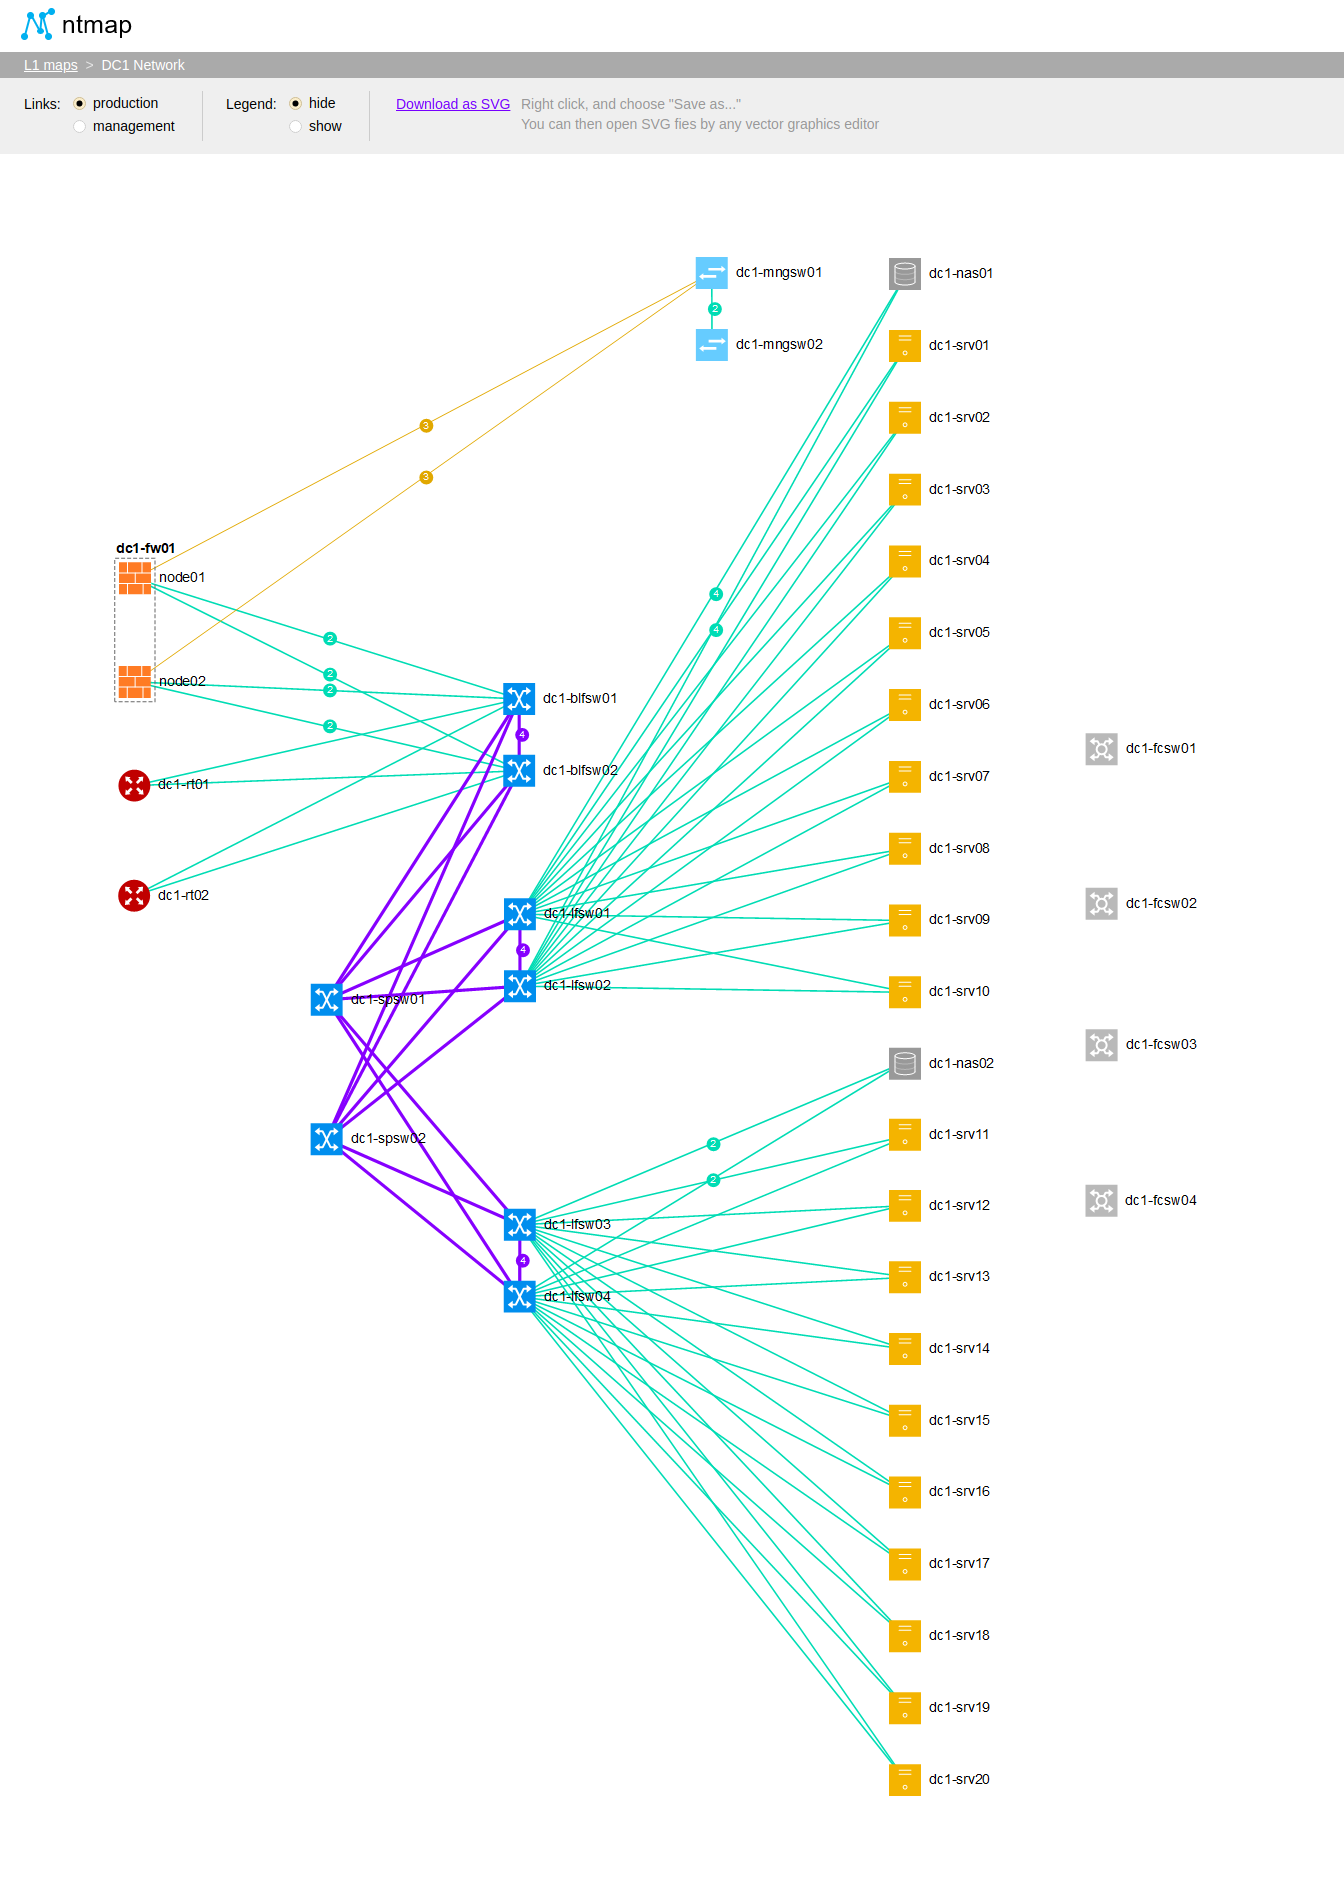
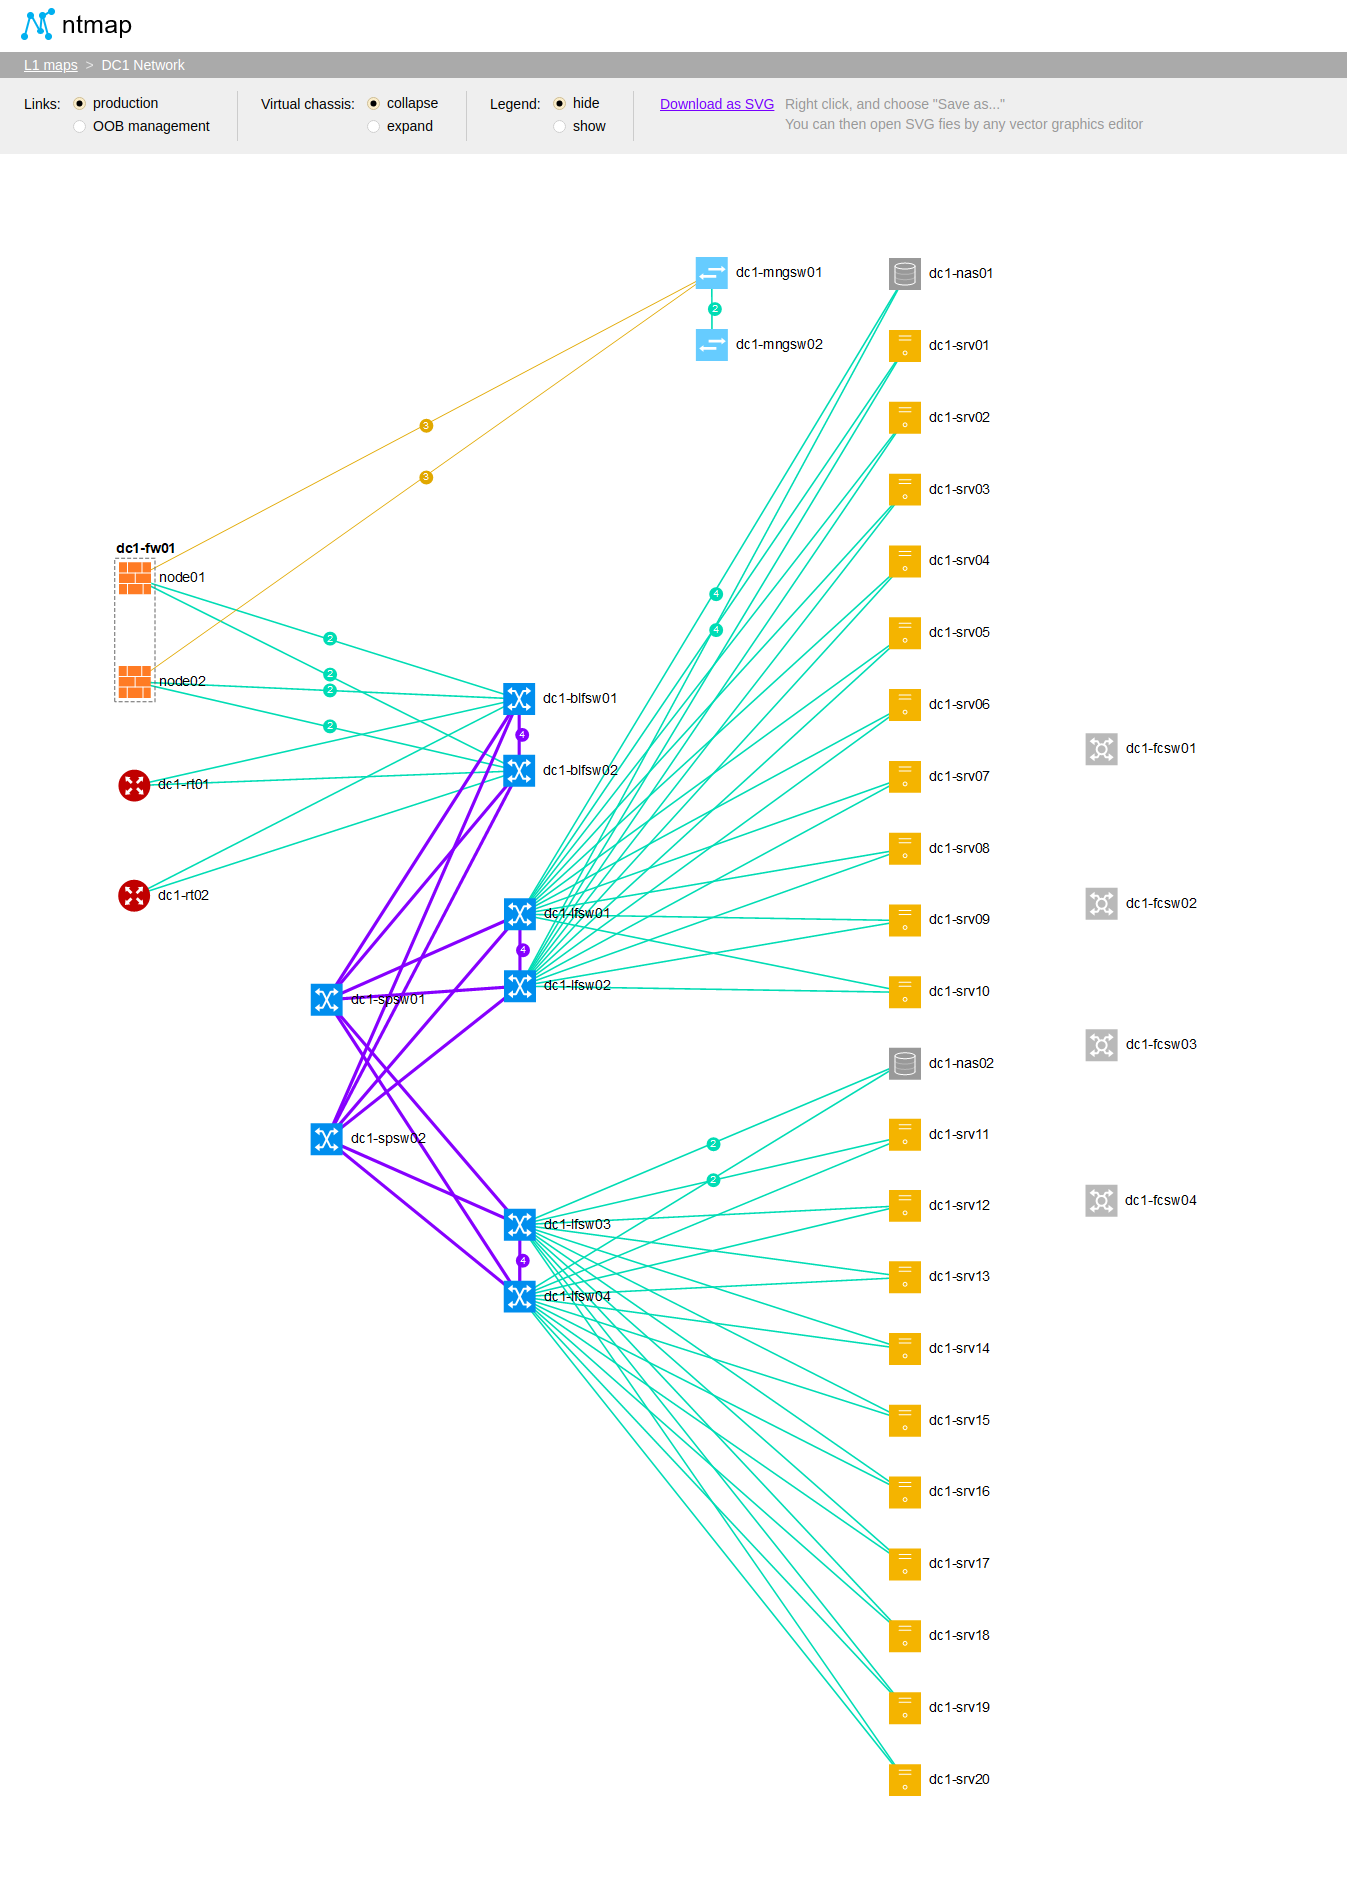
Added VC collapse/expand display mode

diff --git a/www/map/index.html b/www/map/index.html
@@ -9,7 +9,7 @@
 	<table width="100%" cellspacing="0" cellpadding="0" style="padding: 0; margin: 0;">
 		<tr>
 			<td style="padding-left: 20px;">
-				<img src="/img/logo.png" style="margin-top: 8px; margin-bottom: 8px;"/>
+				<a href="/"><img src="/img/logo.png" style="margin-top: 8px; margin-bottom: 8px;" border="0"/></a>
 			</td>
 		</tr>
 		<tr>
@@ -23,18 +23,19 @@
 					<tr>
 						<!--<td valign=top style="padding-top:6px">&#x2190; <a href="/">Back to list</a></td>
 						<td width="16"></td><td width="20"><div class="div-vert-line-80"/></td>-->
-						<!--<td valign=top style="padding-top:6px">Virtual chassis:</td>-->
-						<!--<td valign="top">
-							<table>
-								<tr><td><input type="radio" name="hide_clients_radio" value="1" onclick="drawL1Map(1);" checked="checked" /></td><td>collapse</td></tr>
-								<tr><td><input type="radio" name="hide_clients_radio" value="0" onclick="drawL1Map(0);"/></td><td>expand</td></tr>
-							</table>
-						</td>-->
 						<td valign=top style="padding-top:6px">Links:</td>
 						<td valign="top">
 							<table>
-								<tr><td><input type="radio" name="radio_links_mode" value="0" onclick="drawL1Map(1, 1);" checked="checked" /></td><td>production</td></tr>
-								<tr><td><input type="radio" name="radio_links_mode" value="1" onclick="drawL1Map(1, 0);"/></td><td>management</td></tr>
+								<tr><td><input type="radio" name="radio_prod_links_mode" value="1" onclick="drawL1Map();" checked="checked" /></td><td>production</td></tr>
+								<tr><td><input type="radio" name="radio_prod_links_mode" value="0" onclick="drawL1Map();"/></td><td>OOB management</td></tr>
+							</table>
+						</td>
+						<td width="16"></td><td width="20"><div class="div-vert-line-80"/></td>
+						<td valign=top style="padding-top:6px">Virtual chassis:</td>
+						<td valign="top">
+							<table>
+								<tr><td><input type="radio" name="radio_expand_vc_mode" value="0" onclick="drawL1Map();" checked="checked" /></td><td>collapse</td></tr>
+								<tr><td><input type="radio" name="radio_expand_vc_mode" value="1" onclick="drawL1Map();"/></td><td>expand</td></tr>
 							</table>
 						</td>
 						<td width="16"></td><td width="20"><div class="div-vert-line-80"/></td>
@@ -117,7 +118,7 @@
 									<text x="596" y="10" class="secondary_text">Standalone node:</text>
 									<text x="596" y="28" class="secondary_text"></text>
 									<image xlink:href="/img/switch.svg" width="32" height="32" x="600" y="20"></image>
-									<text x="640" y="40">dc2-core-sw01</text>
+									<text x="640" y="40">dc2-leaf-sw01</text>
 								</g>
 							</g>
 							</svg>
@@ -136,10 +137,11 @@
 </div>
 
 <footer>
-	<table width="100%">
+	<div style="height: 1px; background: #aaaaaa;"></div>
+	<table style="width: 100%; height: calc(100% - 1px);">
 		<tr>
-			<td style="padding: 10px; padding-left: 21px;" class="secondary_text">v0.3.1</td>
-			<td style="padding: 10px; padding-right: 21px; text-align: right;" class="secondary_text"><a href="https://github.com/den-it/ntmap/blob/master/docs/index.md">Docs</a></td>
+			<td style="padding-left: 21px;" class="secondary_text">v0.3.2</td>
+			<td style="padding-right: 21px; text-align: right;" class="secondary_text"><a href="https://github.com/den-it/ntmap/blob/master/docs/index.md">Docs</a></td>
 		</tr>
 	</table>
 </footer>

diff --git a/www/js/l1map.js b/www/js/l1map.js
@@ -221,7 +221,18 @@ function getL1Map() {
 }
 
 
-function drawL1Map(hide_virt_chassis, show_prod_links) {
+function drawL1Map() {
+	// select display mode based on the position of radio buttons
+	if (document.querySelector('input[name="radio_prod_links_mode"]:checked').value == 1)
+		prodLinksMode = true;
+	else
+		prodLinksMode = false;
+
+	if (document.querySelector('input[name="radio_expand_vc_mode"]:checked').value == 1)
+		expandVirtChassisMode = true;
+	else
+		expandVirtChassisMode = false;
+	
 	if (!globalGraph.nodes) 
 		return false;
 	
@@ -230,8 +241,8 @@ function drawL1Map(hide_virt_chassis, show_prod_links) {
 		globalSimulation.stop();
 		
 	var graph = {};
-	Object.assign(graph, globalGraph);
-	
+	var graph = JSON.parse(JSON.stringify(globalGraph)); // TODO: check if this works fine for big data structures
+
 	// initial svg height & width. Will be corrected later according to the number of elements on L1-map
 	var svgHeight = 0; 
 	var svgWidth  = (window.innerWidth || document.documentElement.clientWidth || document.body.clientWidth) - 20;
@@ -243,7 +254,7 @@ function drawL1Map(hide_virt_chassis, show_prod_links) {
 		// if (error) throw error;
 	// graph = test_graph.results;
 	
-	if (!show_prod_links)
+	if (!prodLinksMode)
 		graph.links = graph.mng_links;
 	
 	var vcDict = {};
@@ -251,7 +262,7 @@ function drawL1Map(hide_virt_chassis, show_prod_links) {
 	
 	// Collapse virtual chassis to one node with comprising important properties of all members of VC 
 	// Example: all links beloning to each member should now belong to the node wich represents the whole VC
-	if (hide_virt_chassis) {
+	if (!expandVirtChassisMode) { 
 		// Collapse virtual chassis, i.e. throw out all nodes in each VC except for one
 		for (i in graph.nodes) {
 			if (graph.nodes[i].hasOwnProperty("virtual_chassis") && graph.nodes[i].virtual_chassis) { // This is a VC node. It shouldn't be added to nodes list. Instead a VC node should be generated
@@ -325,10 +336,6 @@ function drawL1Map(hide_virt_chassis, show_prod_links) {
 			}
 		}
 		
-		//console.log(vcDict);
-		//console.log(nodesList);
-		//console.log(linksList);
-
 		graph.nodes = nodesList;
 		graph.links = linksList;
 	}
@@ -421,7 +428,7 @@ function drawL1Map(hide_virt_chassis, show_prod_links) {
 		//graph.nodes[i].fx=1;
 		graph.nodes[i].fx =  graph.nodes[i].group * svgWidth / groupsArray.length - 60;
 	}
-
+	
 	var svg = d3.select("svg[id='svg1']");
 	svg
 		.selectAll("g").remove(); // clear previous chart if any

diff --git a/www/index.html b/www/index.html
@@ -73,10 +73,11 @@
 </div>
 
 <footer>
-	<table width="100%">
+	<div style="height: 1px; background: #aaaaaa;"></div>
+	<table style="width: 100%; height: calc(100% - 1px);">
 		<tr>
-			<td style="padding: 10px; padding-left: 21px;" class="secondary_text">v0.3.1</td>
-			<td style="padding: 10px; padding-right: 21px; text-align: right;" class="secondary_text"><a href="https://github.com/den-it/ntmap/blob/master/docs/index.md">Docs</a></td>
+			<td style="padding-left: 21px;" class="secondary_text">v0.3.2</td>
+			<td style="padding-right: 21px; text-align: right;" class="secondary_text"><a href="https://github.com/den-it/ntmap/blob/master/docs/index.md">Docs</a></td>
 		</tr>
 	</table>
 </footer>

diff --git a/backend/wsgi.py b/backend/wsgi.py
@@ -281,6 +281,7 @@ def getMap(id):
                                 d.id AS netbox_id,
                                 d.serial AS serial,
                                 vc.domain AS virtual_chassis,
+                                vc.master_id AS virtual_chassis_master_netbox_id,
                                 c.name AS cluster,
                                 r.name AS type,
                                 t.model AS model,
@@ -441,29 +442,31 @@ def getMap(id):
                     })
 
     for node in graphJson["results"]["nodes"]:
-        if not (node["cluster"]):
+        if not node["cluster"]:
             node.pop("cluster", None)
-        if not (node["virtual_chassis"]):
+        if not node["virtual_chassis"]:
             node.pop("virtual_chassis", None)
+        if not node["virtual_chassis_master_netbox_id"]:
+            node.pop("virtual_chassis_master_netbox_id")
 
     for node in graphJson["results"]["interfaces"]:
         for interface in graphJson["results"]["interfaces"][node]:
-            if not (interface["lag"]):
+            if not interface["lag"]:
                 interface.pop("lag", None)
                 interface.pop("lag_netbox_id", None)
 
-            if not (interface["neighbor"]):
+            if not interface["neighbor"]:
                 interface.pop("neighbor", None)
                 interface.pop("neighbor_interface", None)
                 interface.pop("neighbor_interface_netbox_id", None)
                 interface.pop("neighbor_netbox_id", None)
 
     for i, value in enumerate(graphJson["results"]["links"]):
-        if (graphJson["results"]["links"][i]["quantity"] > 1):
+        if graphJson["results"]["links"][i]["quantity"] > 1:
             graphJson["results"]["links"][i]["quantity"] = int(graphJson["results"]["links"][i]["quantity"] / 2)
 
     for i, value in enumerate(graphJson["results"]["mng_links"]):
-        if (graphJson["results"]["mng_links"][i]["quantity"] > 1):
+        if graphJson["results"]["mng_links"][i]["quantity"] > 1:
             graphJson["results"]["mng_links"][i]["quantity"] = int(graphJson["results"]["mng_links"][i]["quantity"] / 2)
 
     graphJson["result"] = "success"
